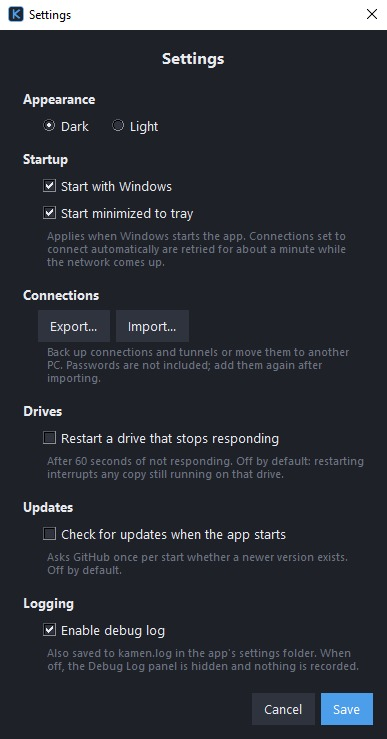
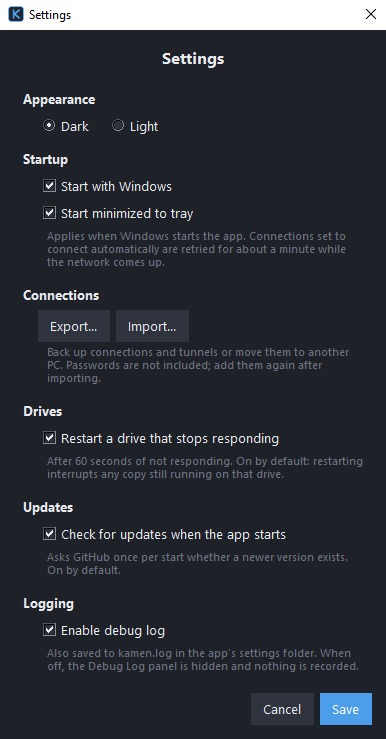
v1.7.2: hung drives restart and update check on by default

diff --git a/kamen/ui.py b/kamen/ui.py
@@ -1537,14 +1537,14 @@ class SettingsDialog(tk.Toplevel):
         self.restart_var = tk.BooleanVar(value=settings.get("auto_restart_hung", False))
         tk.Checkbutton(body, text="Restart a drive that stops responding",
                        variable=self.restart_var, **radio).pack(anchor="w", padx=(18, 0))
-        note(f"After {HUNG_RESTART_SECS} seconds of not responding. Off by default: "
+        note(f"After {HUNG_RESTART_SECS} seconds of not responding. On by default: "
              "restarting interrupts any copy still running on that drive.")
 
         section("Updates")
         self.update_var = tk.BooleanVar(value=settings.get("check_updates", False))
         tk.Checkbutton(body, text="Check for updates when the app starts",
                        variable=self.update_var, **radio).pack(anchor="w", padx=(18, 0))
-        note("Asks GitHub once per start whether a newer version exists. Off by default.")
+        note("Asks GitHub once per start whether a newer version exists. On by default.")
 
         section("Logging")
         self.log_var = tk.BooleanVar(value=settings["log_enabled"])

diff --git a/kamen/config.py b/kamen/config.py
@@ -128,7 +128,7 @@ def _dpapi_decrypt(token: str) -> str:
 SETTINGS_PATH = CONFIG_PATH.parent / "settings.json"
 
 DEFAULT_SETTINGS = {"theme": "dark", "log_enabled": True, "start_minimized": True,
-                    "auto_restart_hung": False, "check_updates": False}
+                    "auto_restart_hung": True, "check_updates": True}
 
 RELEASES_URL = "https://github.com/DinamoXP/Kamen-SSHFS-Manager/releases/latest"
 

diff --git a/README.md b/README.md
@@ -7,13 +7,13 @@ letters, open SSH tunnels to web panels and databases, browse through a SOCKS
 proxy, and open a terminal in one click. Built on SSHFS-Win, with saved
 connections, 2FA support and automatic reconnect.
 
-![Kamen SSHFS Manager main window with three connections, two of them mounted](images/main.jpg?v=b18e8287)
+![Kamen SSHFS Manager main window with three connections, two of them mounted](images/main.jpg?v=0fad7066)
 
 ## Screenshots
 
 | New connection | Settings |
 |:---:|:---:|
-| ![Connection details form with Test Connection and Browse](images/new_connection.jpg?v=4625190b) | ![Settings window with theme, startup, connections, drive, update and logging options](images/settings.jpg?v=b0347228) |
+| ![Connection details form with Test Connection and Browse](images/new_connection.jpg?v=9899bd96) | ![Settings window with theme, startup, connections, drive, update and logging options](images/settings.jpg?v=4d7f1d75) |
 
 ## Features
 
@@ -45,7 +45,7 @@ connections, 2FA support and automatic reconnect.
   opening the window; the tray icon gets an orange dot if a drive hangs
 - Right-click a card for more actions, including **Duplicate**
 - Export and import connections (passwords are never exported)
-- Optional check for new releases on GitHub (off by default)
+- Checks GitHub for a new release when the app starts (can be turned off)
 - **Log File** button opens the folder with the log file
 - Live status polling (every 5 s) that can't freeze the app, with
   **Restart** / **Kill** for a drive that stops responding
@@ -92,9 +92,9 @@ Open with the **⚙ Settings** button. Defaults are shown in bold.
 | Appearance              | **Dark** / Light                                    |
 | Start with Windows      | **On** / Off (enabled on first run of the exe)      |
 | Start minimized to tray | **On** / Off (applies when Windows starts the app)  |
-| Restart a drive that stops responding | On / **Off** (after 60 s; interrupts any copy still running on that drive) |
+| Restart a drive that stops responding | **On** / Off (after 60 s; interrupts any copy still running on that drive) |
 | Enable debug log        | **On** / Off (also written to `kamen.log`)          |
-| Check for updates when the app starts | On / **Off** (shows a banner with a Download button when a newer release is out) |
+| Check for updates when the app starts | **On** / Off (shows a banner with a Download button when a newer release is out) |
 | Connections             | **Export...** / **Import...** a `.json` file of your connections (no passwords) |
 
 Imported connections get new ids, and if a drive letter is already used the
@@ -144,7 +144,7 @@ Files can be opened and copied off the drive, but not changed, created or
 deleted. The server's SFTP program is started in read-only mode, so this
 needs OpenSSH's `sftp-server` in one of the usual places
 (`/usr/lib/openssh/`, `/usr/libexec/openssh/`, `/usr/lib/ssh/`, `/usr/libexec/`,
-`/usr/lib/`). If it isn't found, connecting fails with a hint in the log.
+`/usr/lib/`). If it isn't found, connecting fails with a hint in the debug log.
 
 ### Interactive login (2FA)
 
@@ -198,8 +198,8 @@ opening it hangs), the app notices within about 10 seconds:
   process.
 - The rest of the app keeps working, and the app still opens normally while a
   drive is stuck.
-- With **Restart a drive that stops responding** turned on in Settings, the
-  app restarts it by itself after 60 seconds.
+- With **Restart a drive that stops responding** on (the default), the app
+  restarts it by itself after 60 seconds.
 
 Only one copy of the app runs at a time. Opening it again brings the running
 window to the front.
@@ -322,14 +322,15 @@ To check that a download is genuine:
 
 ## Privacy
 
-This program will not transfer any information to other networked systems
-unless specifically requested by the user or the person installing or
-operating it.
+The app collects no data and sends nothing about you or your connections
+anywhere. It connects to:
 
-The app connects only to the SSH servers you configure, and opens download
-pages in your browser only when you click a download button.
-If you turn on **Check for updates when the app starts** (off by default),
-it also asks GitHub for the newest release version on each start.
+- the SSH servers you configure;
+- GitHub, once per start, to read the newest release version, while
+  **Check for updates when the app starts** is on (the default). Nothing is
+  sent except a normal web request. Turn it off in Settings to stop this.
+
+Download pages open in your browser only when you click a download button.
 
 ## Support
 
